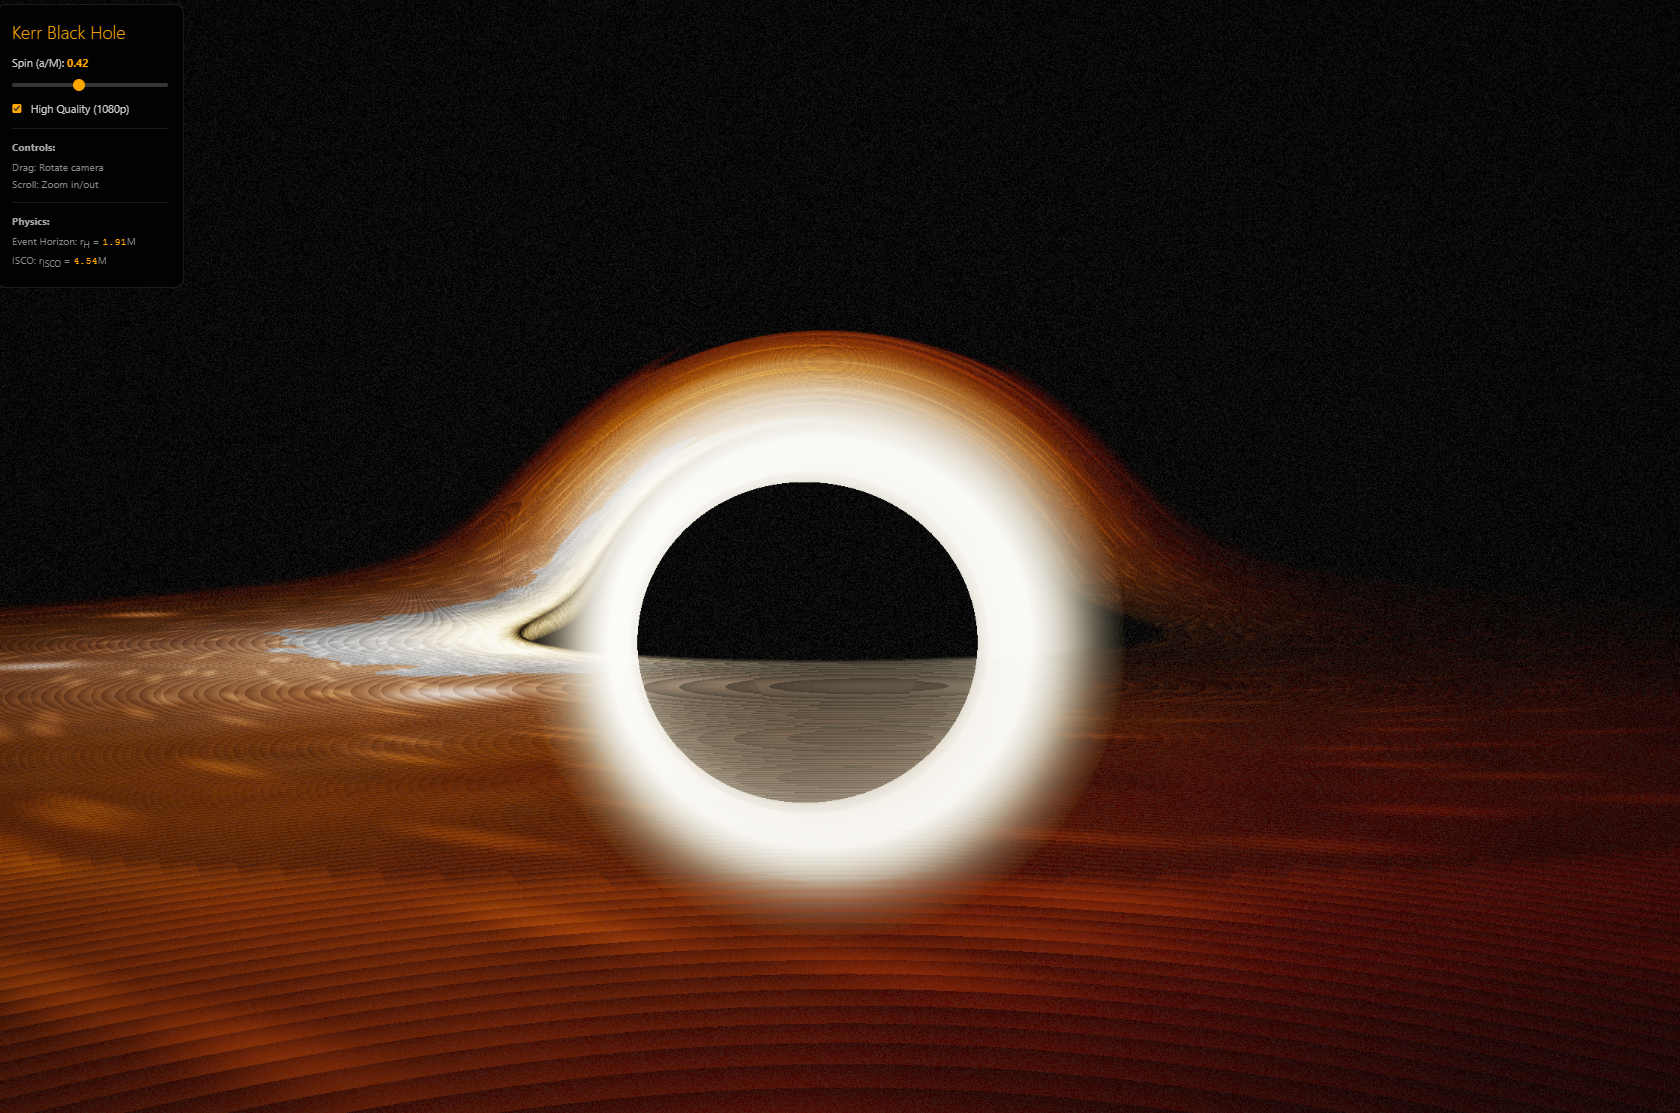
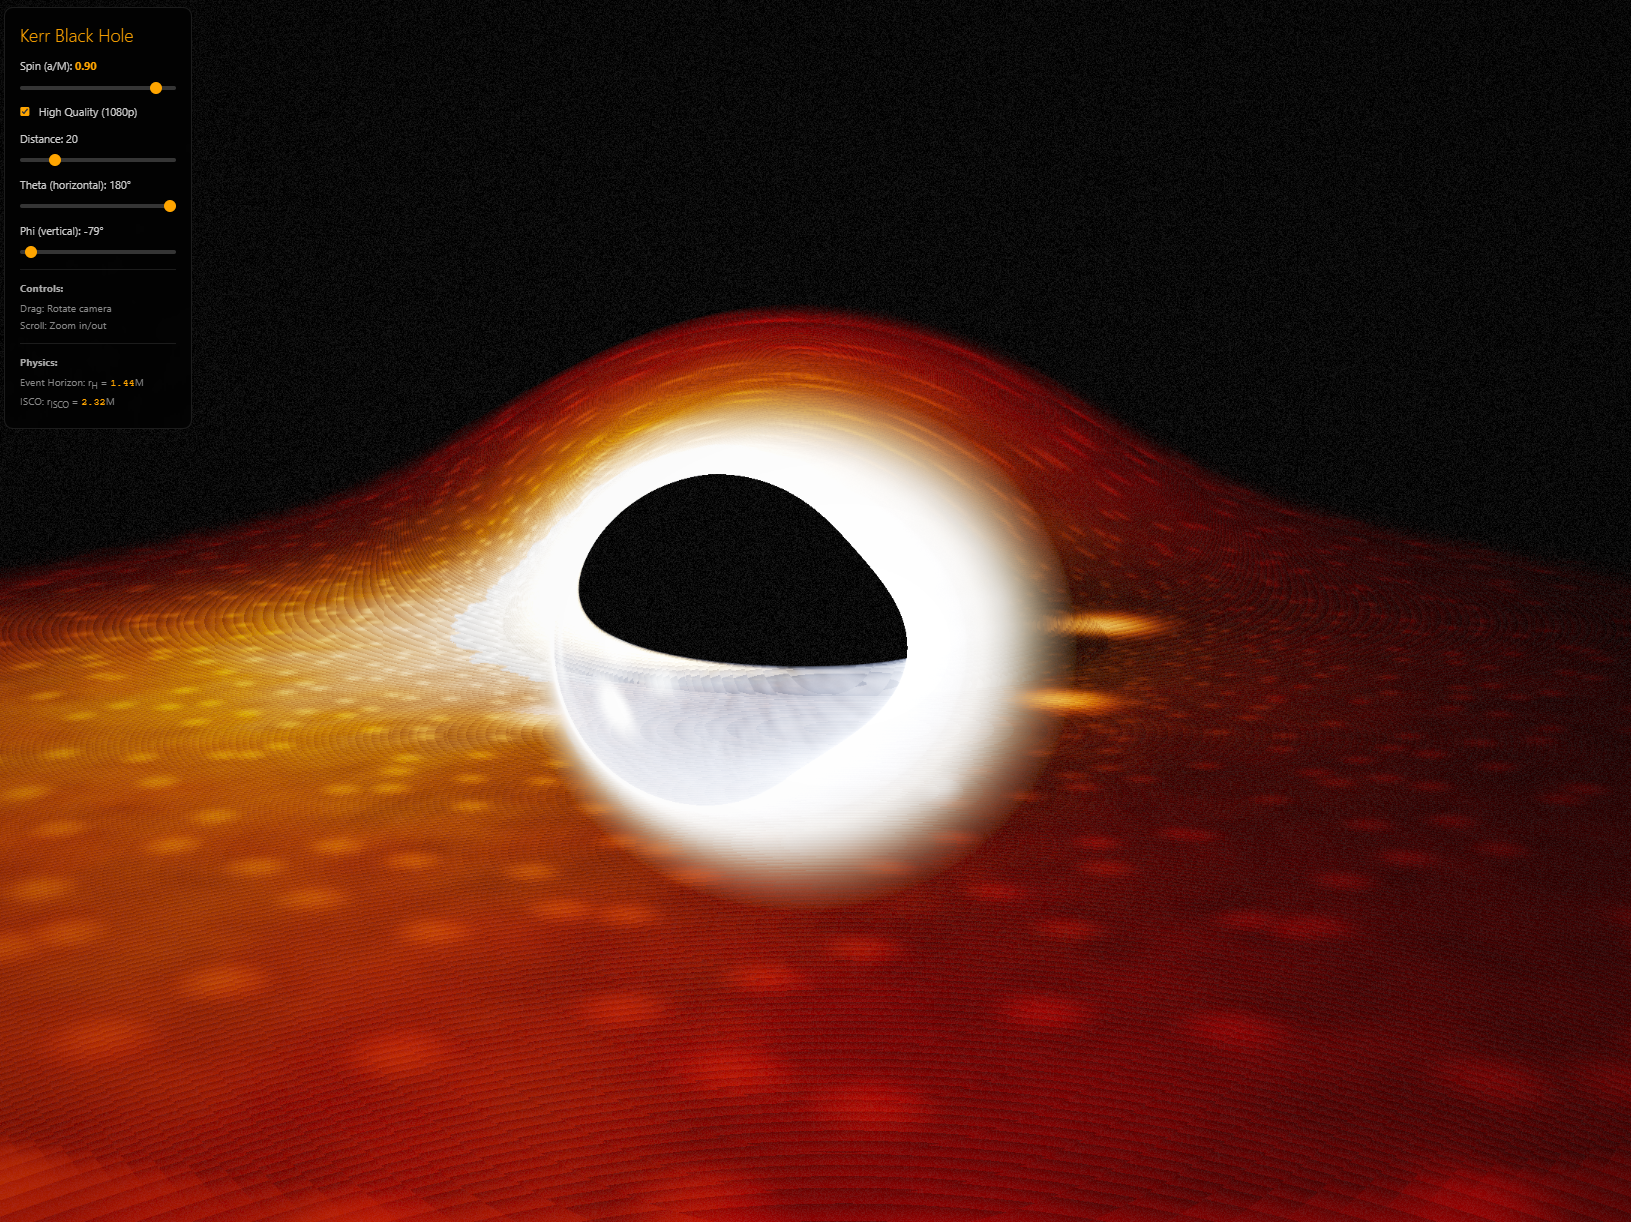
Fix camera default angle and add Hawkins radiation

diff --git a/index.html b/index.html
@@ -4,6 +4,7 @@
     <meta charset="UTF-8">
     <meta name="viewport" content="width=device-width, initial-scale=1.0">
     <title>Kerr Black Hole Simulation</title>
+    <link rel="icon" type="image/svg+xml" href="favicon.svg">
     <link rel="stylesheet" href="style.css">
 </head>
 <body>
@@ -25,6 +26,27 @@
                     <input type="checkbox" id="resolution-toggle" checked>
                     High Quality (1080p)
                 </label>
+            </div>
+            
+            <div class="control-group">
+                <label for="distance-slider">
+                    Distance: <span id="distance-value">20</span>
+                </label>
+                <input type="range" id="distance-slider" min="5" max="80" step="1" value="20">
+            </div>
+            
+            <div class="control-group">
+                <label for="theta-slider">
+                    Theta (horizontal): <span id="theta-value">180</span>°
+                </label>
+                <input type="range" id="theta-slider" min="-180" max="180" step="1" value="180">
+            </div>
+            
+            <div class="control-group">
+                <label for="phi-slider">
+                    Phi (vertical): <span id="phi-value">-79</span>°
+                </label>
+                <input type="range" id="phi-slider" min="-85" max="85" step="1" value="-79">
             </div>
             
             <div class="info">
@@ -93,6 +115,26 @@
                 const spin = parseFloat(e.target.value).toFixed(2);
                 spinValue.textContent = spin;
                 updatePhysicsInfo(spin);
+            });
+            
+            // Camera sliders
+            const distanceSlider = document.getElementById('distance-slider');
+            const distanceValue = document.getElementById('distance-value');
+            const thetaSlider = document.getElementById('theta-slider');
+            const thetaValue = document.getElementById('theta-value');
+            const phiSlider = document.getElementById('phi-slider');
+            const phiValue = document.getElementById('phi-value');
+            
+            distanceSlider.addEventListener('input', (e) => {
+                distanceValue.textContent = e.target.value;
+            });
+            
+            thetaSlider.addEventListener('input', (e) => {
+                thetaValue.textContent = e.target.value;
+            });
+            
+            phiSlider.addEventListener('input', (e) => {
+                phiValue.textContent = e.target.value;
             });
             
             // Initial physics info

diff --git a/src/lib.rs b/src/lib.rs
@@ -81,10 +81,45 @@ fn read_ui_params() -> SimParams {
 }
 
 #[cfg(target_arch = "wasm32")]
+fn read_camera_overrides() -> (Option<f32>, Option<f32>, Option<f32>) {
+    let window = web_sys::window().unwrap();
+    let document = window.document().unwrap();
+    
+    let distance = document
+        .get_element_by_id("distance-slider")
+        .and_then(|el| el.dyn_into::<web_sys::HtmlInputElement>().ok())
+        .map(|input| input.value().parse::<f32>().unwrap_or(20.0));
+
+    let theta = document
+        .get_element_by_id("theta-slider")
+        .and_then(|el| el.dyn_into::<web_sys::HtmlInputElement>().ok())
+        .map(|input| input.value().parse::<f32>().unwrap_or(180.0).to_radians());
+
+    let phi = document
+        .get_element_by_id("phi-slider")
+        .and_then(|el| el.dyn_into::<web_sys::HtmlInputElement>().ok())
+        .map(|input| input.value().parse::<f32>().unwrap_or(-79.0).to_radians());
+
+    (distance, theta, phi)
+}
+
+#[cfg(target_arch = "wasm32")]
 fn render_frame() {
     APP_STATE.with(|state| {
         let mut state = state.borrow_mut();
         state.params = read_ui_params();
+        
+        // Apply camera overrides from sliders
+        let (distance, theta, phi) = read_camera_overrides();
+        if let Some(d) = distance {
+            state.camera.distance = d;
+        }
+        if let Some(t) = theta {
+            state.camera.theta = t;
+        }
+        if let Some(p) = phi {
+            state.camera.phi = p;
+        }
         
         // Copy values we need before borrowing renderer mutably
         let camera = state.camera.clone();

diff --git a/src/camera.rs b/src/camera.rs
@@ -12,9 +12,9 @@ pub struct Camera {
 impl Camera {
     pub fn new() -> Self {
         Self {
-            distance: 25.0,
-            theta: 0.0,
-            phi: 0.3,  // slightly above equatorial plane
+            distance: 20.0,
+            theta: std::f32::consts::PI,  // 180 degrees
+            phi: -79.0_f32.to_radians(),  // -79 degrees
             target: Vec3::ZERO,
             fov: 60.0_f32.to_radians(),
         }
